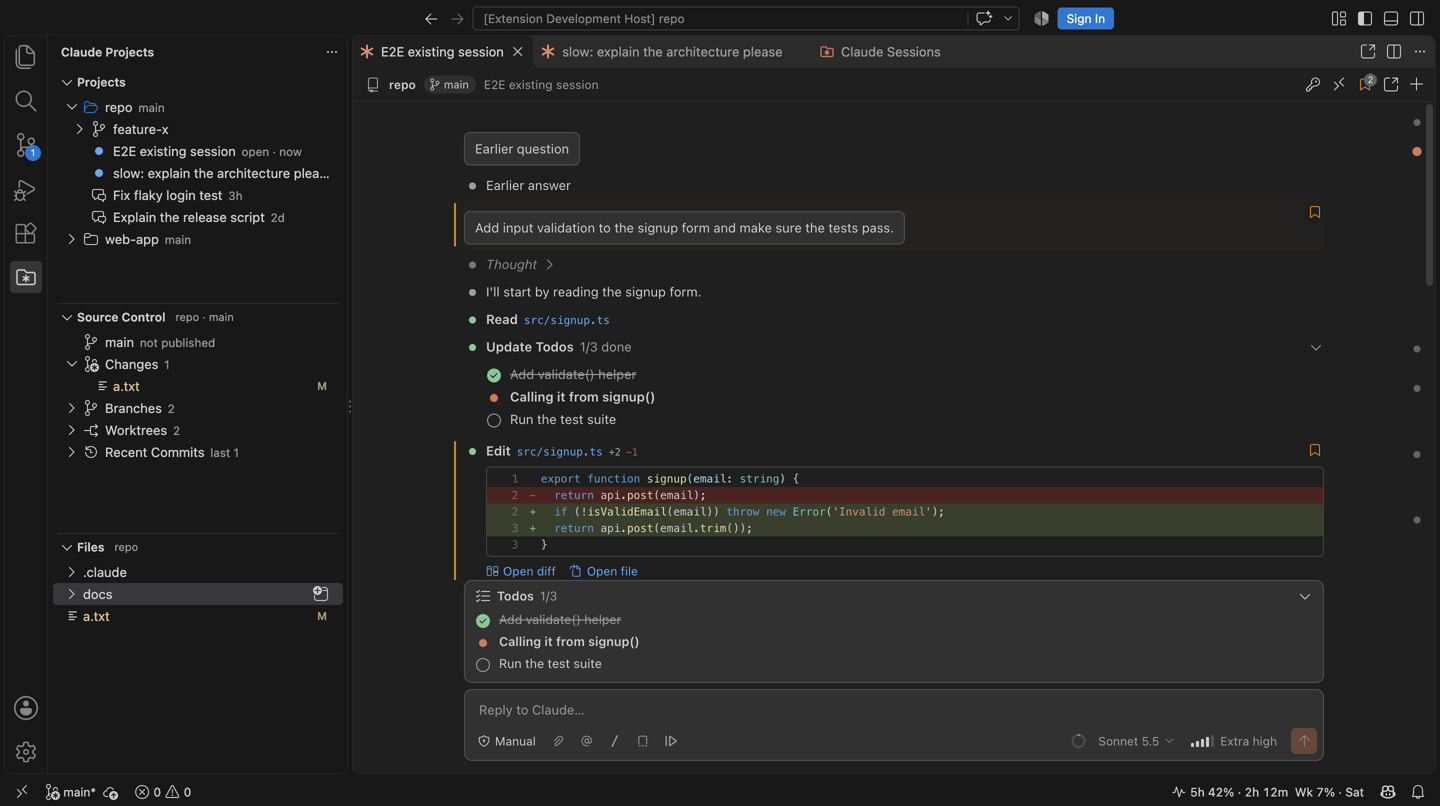
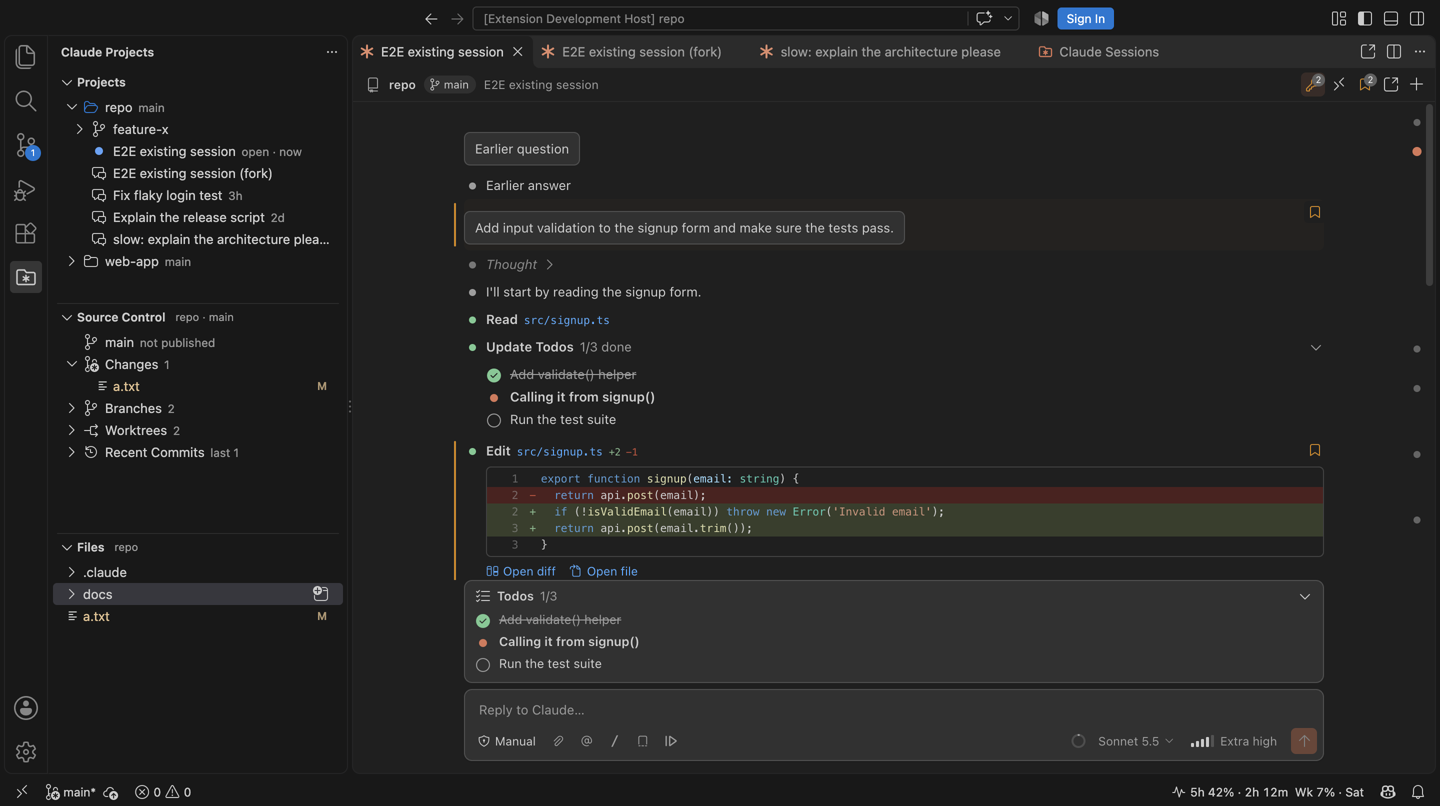
Visual pass: screenshots of presets, shared .env and forking

diff --git a/test/e2e/visual.ts b/test/e2e/visual.ts
@@ -88,6 +88,45 @@ export async function run(): Promise<void> {
   await sleep(1500);
   await screenshot('3-chat-finished');
 
+  // README: the extras this extension adds to a chat.
+  if (process.env.CP_E2E_FEATURES) {
+    const click = (sel: string) => webviewQuery(`(d) => { const b = [...d.querySelectorAll(${JSON.stringify(sel)})].find((x) => x.offsetParent); if (!b) return null; b.click(); return true; }`);
+    // Prompt presets menu.
+    await click('.presets-btn');
+    await sleep(800);
+    await screenshot('13-presets');
+    await click('.presets-btn');
+    await sleep(300);
+    // Shared .env menu.
+    const envFile = join(process.env.CLAUDE_CONFIG_DIR ?? '/tmp', 'shared.env');
+    writeFileSync(envFile, 'STRIPE_SECRET_KEY=sk_test_123\nOPENAI_API_KEY=abc\nDATABASE_URL=postgres://localhost/app\n');
+    await vscode.workspace.getConfiguration('claudeProjects').update('chat.globalEnvFile', envFile, vscode.ConfigurationTarget.Global);
+    await sleep(1500);
+    await webviewQuery(`(d) => { const b = [...d.querySelectorAll('.icon-btn')].find((x) => x.querySelector('.codicon-key') && x.offsetParent); b?.click(); return !!b; }`);
+    await sleep(500);
+    await webviewQuery(`(d) => { const m = d.querySelector('.env-menu'); if (!m || !m.offsetParent) return null; m.querySelector('.env-master .switch')?.click(); return true; }`);
+    await sleep(500);
+    await webviewQuery(`(d) => { const m = d.querySelector('.env-menu'); if (!m || !m.offsetParent) return null; const boxes = [...m.querySelectorAll('.env-check input')]; boxes.forEach((b) => { if (b.checked !== !b.closest('.env-check').innerText.includes('DATABASE')) b.click(); }); return boxes.length; }`);
+    await sleep(600);
+    await screenshot('14-shared-env');
+    await webviewQuery(`(d) => { const b = [...d.querySelectorAll('.icon-btn')].find((x) => x.querySelector('.codicon-key') && x.offsetParent); b?.click(); return !!b; }`);
+    await sleep(300);
+    // The reply buttons (fork, copy, bookmark), shown as if hovered.
+    await webviewQuery(`(d) => { const f = [...d.querySelectorAll('.bm-frame')].filter((x) => x.querySelector('.bm-fork') && x.innerText.includes('The command printed hi')).pop(); if (!f) return null; f.querySelectorAll(':scope > .bm-toggle, :scope > .bm-used-wrap > .bm-toggle').forEach((b) => (b.style.opacity = '1')); f.querySelector('.bm-fork').style.background = 'var(--vscode-toolbar-hoverBackground)'; f.scrollIntoView({ block: 'center' }); return true; }`);
+    await sleep(600);
+    await screenshot('15-fork-button');
+    // Fork from that reply: a new chat with the conversation up to there.
+    const before = api.sessions.all.length;
+    await webviewQuery(`(d) => { const f = [...d.querySelectorAll('.bm-frame')].filter((x) => x.querySelector('.bm-fork') && x.innerText.includes('The command printed hi')).pop(); f?.querySelector('.bm-fork').click(); return !!f; }`);
+    await waitFor('fork', () => api.sessions.all.length > before, 15_000).catch(() => log('fork did not open'));
+    const fork = api.sessions.all[api.sessions.all.length - 1];
+    api.panels.show(fork);
+    await sleep(2500);
+    await screenshot('16-forked');
+    api.panels.show(s);
+    await sleep(800);
+  }
+
   // Files view: the New File box shows the selected folder's path.
   {
     const views = api.gitViews();
